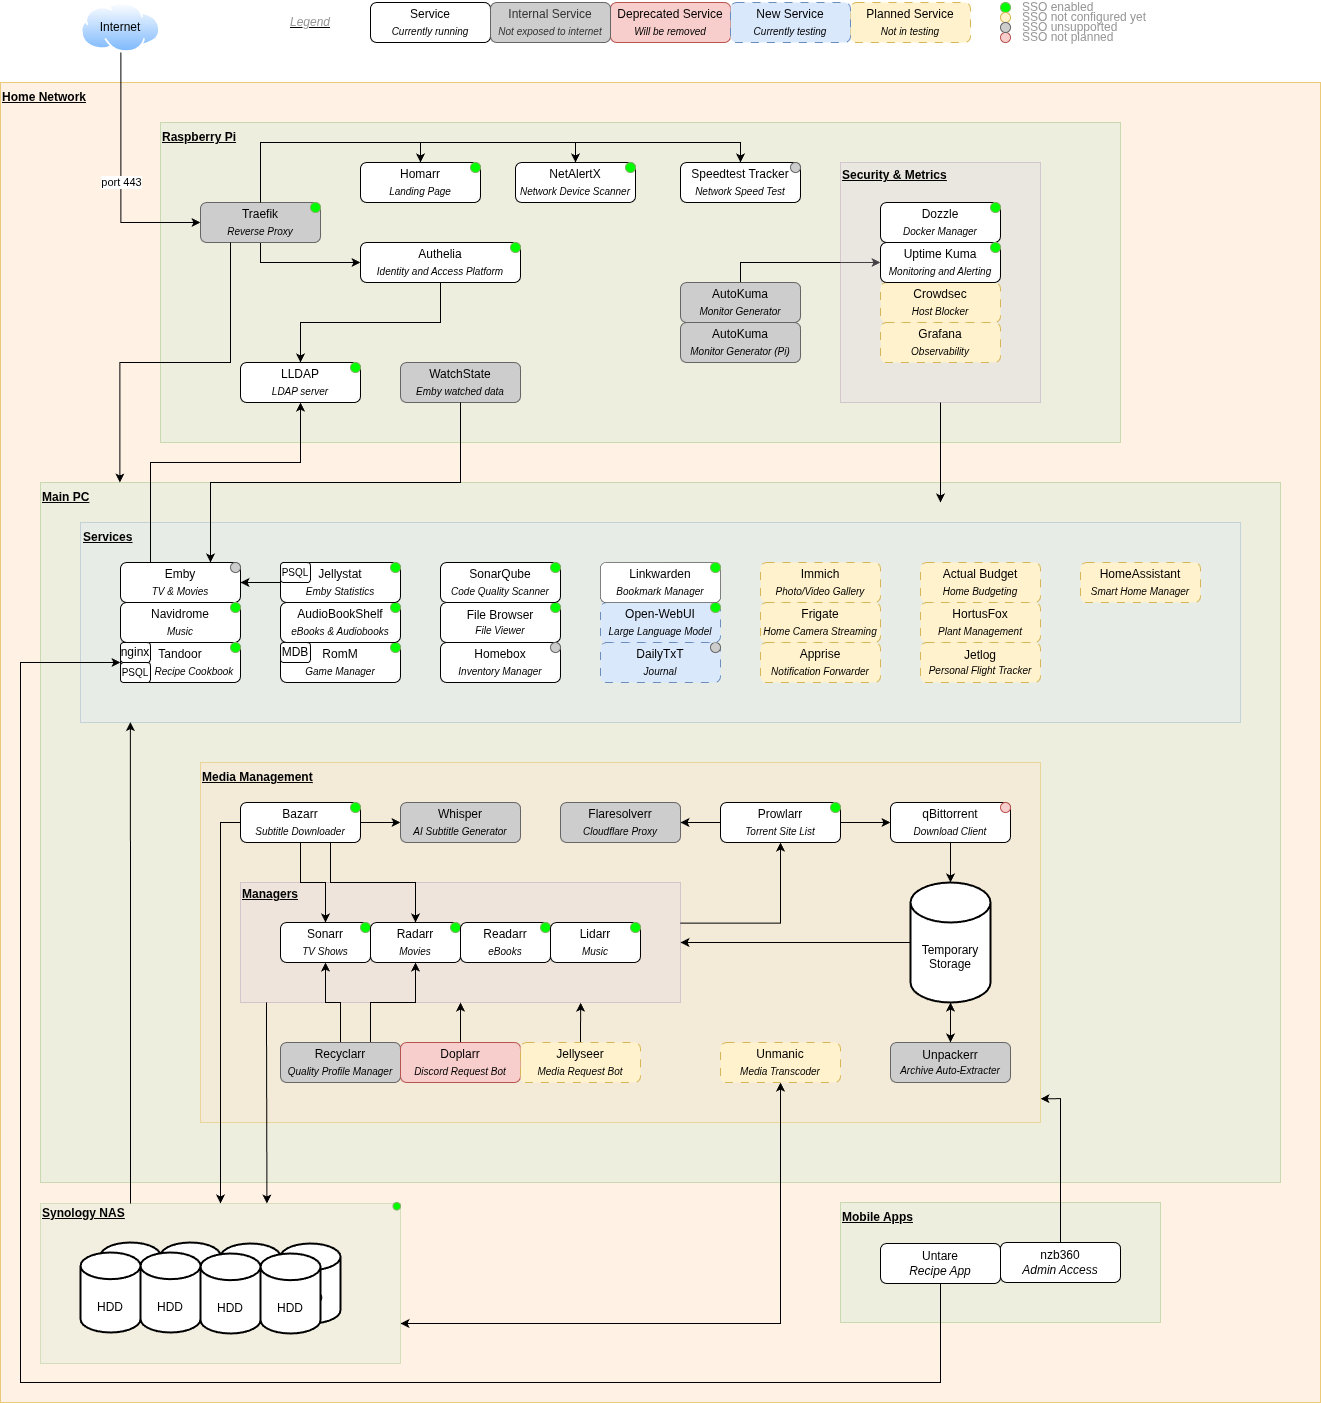
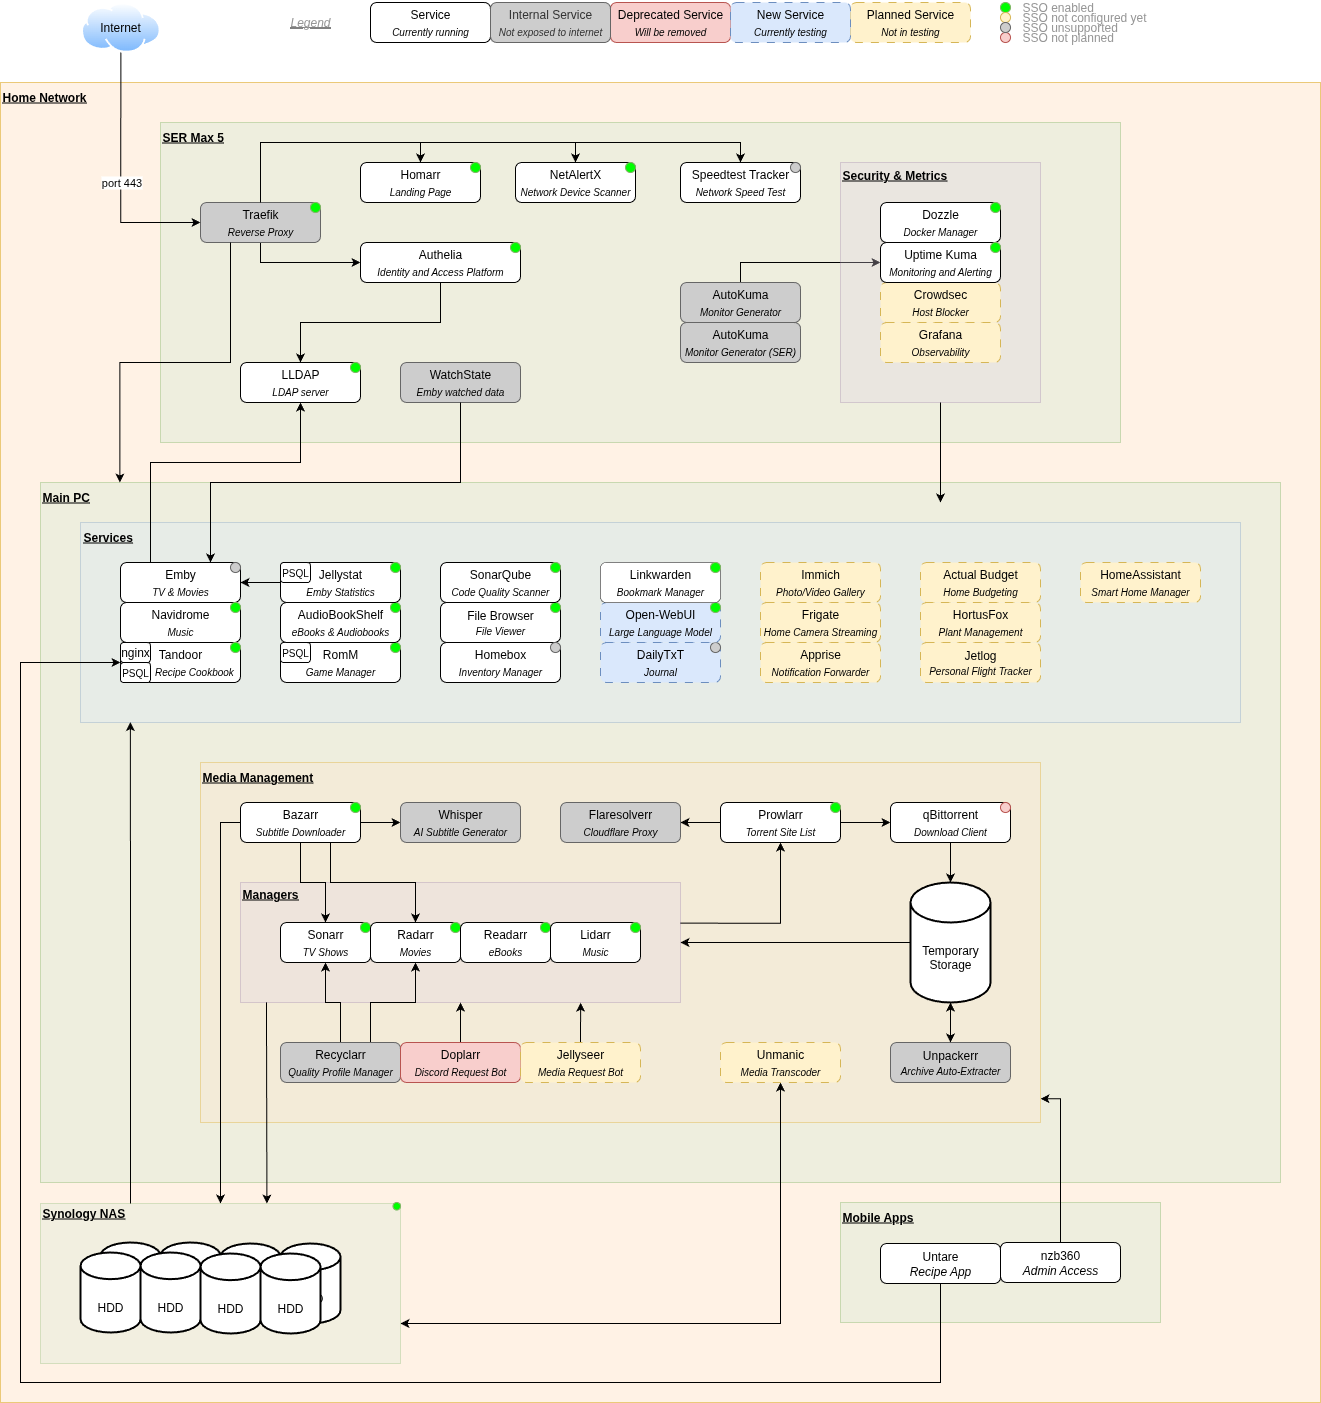
[Repo] Renaming docker-compose file for Raspberry Pi to SER

diff --git a/README.md b/README.md
@@ -10,299 +10,13 @@
 
 ### Main PC
 
+### SER Max 5
+
 ### Raspberry Pi
 
 ### Synology NAS
 
 ### Mobile Apps
-
-## Services
-
-TODO: Decide the order of the subheadings within each service
-
-### <img src="./logos/radarr.png" width="50" height="50" alt="radarr_logo"/> Radarr
-
-TODO: Purpose
-
-#### Docker Compose Extract
-
-```yaml
-radarr:
-  image: linuxserver/radarr:nightly-version-5.7.0.8851
-  container_name: radarr
-  hostname: radarr
-  depends_on:
-    qbittorrent:
-      condition: service_healthy
-  deploy:
-    resources:
-      limits:
-        cpus: "1"
-        memory: "1024M"
-  environment:
-    # Base config
-    TZ: "${TIMEZONE:?Timezone not set}"
-  healthcheck:
-    interval: 30s
-    retries: 3
-    start_period: 30s
-    test: [ "CMD", "wget", "--no-verbose", "--tries=1", "--spider", "http://127.0.0.1:3000/ping" ]
-    timeout: 5s
-  labels:
-    # Reverse proxy config
-    traefik.enable: "true"
-    traefik.http.routers.radarr.rule: "Host(`radarr.${DOMAIN_NAME}`)"
-    traefik.http.routers.radarr.entrypoints: "websecure"
-    traefik.http.routers.radarr.tls: "true"
-    traefik.http.routers.radarr.middlewares: "authelia@file"
-    traefik.http.services.radarr.loadbalancer.server.port: "4000"
-    # Uptime-Kuma monitor config
-    kuma.{{container_name}}.http.name: "Radarr (Movie Manager)"
-    kuma.{{container_name}}.http.url: "${RADARR_MONITOR_URL:?[radarr] Monitor URL missing}"
-  networks:
-    - home
-  ports:
-    - "4000:3000"
-  restart: unless-stopped
-  user: "${PUID_ROOT:?User ID missing}:${PGID_ROOT:?Group ID missing}"
-  volumes:
-    # Volume mounts from host system
-    - "${DOWNLOADS_DIRECTORY}:/downloads"
-    - "${MOVIE_DIRECTORY}:/movies"
-    # Persistent volumes
-    - ./storage/radarr/:/config
-```
-
-#### Additional Environment Variables
-
-None.
-
-#### Required Services
-
-#### Is It Mandatory
-
-No.
-
-Radarr is a companion to Sonarr/Lidarr/Readarr, but it is used to finding movies. If you have no need of *ever* wanting movies to be downloaded
-automatically, this service can be removed.
-
-It is possible to search for content through Prowlarr directly if a movie is wanted. However, they may potentially need to be manually renamed/moved
-after the download is completed.
-
-#### Healthcheck
-
-Radarr exposes a healthcheck endpoint, **/ping**. We configure the h
-
-#### Ports
-
-The default Radarr port of **7878** has been changed in the Radarr UI to **3000**. We then publicly expose it as port **4000**. This is minor
-obfuscation, and should not be considered actual security.
-
-#### Volumes
-
-### <img src="./logos/homarr.png" width="50" height="50" alt="homarr_logo"/> Homarr
-
-### <img src="./logos/sonarr.png" width="50" height="50" alt="sonarr_logo"/> Sonarr
-
-### <img src="./logos/lidarr.png" width="50" height="50" alt="lidarr_logo"/> Lidarr
-
-### <img src="./logos/readarr.png" width="50" height="50" alt="readarr_logo"/> Readarr
-
-----
-
-## Misc/Common Info
-
-### Common Healthcheck
-
-TODO: Discuss interval/retries/start_period/timeout default values
-
-### Common Environment Variables
-
-Most services may contain the following environment variables:
-
-| Environment Variable Name | Purpose  | Example Value    |
-|---------------------------|----------|------------------|
-| TZ (or TIMEZONE)          | Timezone | Pacific/Auckland |
-
-Since they are used throughout, we set these values in the `.env` file and pass them in through our docker compose configuration.
-
-#### PGID/PUID
-
-The **PGID** and **PUID** are used to override the group and user ID of the running container process, for permissions and privileges. Most services
-currently use the root user and group (**0**), exposed through the environment variables **PGID_ROOT** and **PUID_ROOT**. Some have been tested with
-non-root users and will instead use **PGID_NON_ROOT** and **PUID_NON_ROOT**.
-
-```yaml
-services:
-  service_name:
-    image: image_name:tag
-  user: "${PUID_NON_ROOT}:${PGID_NON_ROOT}"
-```
-
-#### TZ/TIMEZONE
-
-**TZ** or **TIMEZONE** is used to tell the service the running host's timezone, as defined by
-the [tz database](https://en.wikipedia.org/wiki/List_of_tz_database_time_zones#List).
-
-----
-
-## Environment Variables File (.env)
-
-TODO: Describe either in detail here, or high-level but with better comments in the .env.template file
-
-----
-
-## Public Access
-
-Access to the services is controlled by an instance of [Apache](https://httpd.apache.org/), being used as a reverse-proxy. This means all requests go
-through the Apache web-server and are then forwarded on to the correct internal system. This means we do not need to expose the ports for each service
-publicly, as Apache will be able to forward those requests itself.
-
-### Macro Definition
-
-The following macro is used as a template for most of the services:
-
-```bash
-<VirtualHost *:80>
-    ServerAdmin admin@email.com
-    ServerName $server_name.example.com
-    ServerAlias $server_name.site.*
-
-    ProxyPass / $protocol://$url/
-    ProxyPassReverse / $protocol://$url/
-
-    RewriteEngine on
-    RewriteCond %{HTTP:Upgrade} websocket [NC]
-    RewriteCond %{HTTP:Connection} upgrade [NC]
-    RewriteRule ^/?(.*) "ws://$url/$1" [P,L]
-
-    ProxyPreserveHost on
-    ProxyRequests Off
-    RemoteIPHeader X-Forwarded-For
-
-    TimeOut 20
-    ErrorDocument 502 https://status.example.com
-    ErrorDocument 503 https://status.example.com
-</VirtualHost>
-```
-
-Breaking down the macro, we can define each section/line:
-
-#### VirtualHost
-
-```bash
-<VirtualHost *:80>
-...
-</VirtualHost>
-```
-
-Definition
-
-#### Host Configuration
-
-```bash
-ServerAdmin admin@email.com
-```
-
-Definition
-
-```bash
-ServerName $server_name.example.com
-```
-
-Definition
-
-```bash
-ServerAlias $server_name.site.*
-```
-
-Definition
-
-#### URL Proxying
-
-```bash
-ProxyPass / $protocol://$url/
-```
-
-Definition
-
-```bash
-ProxyPassReverse / $protocol://$url/
-```
-
-Definition
-
-#### Websocket Enabling
-
-```bash
-RewriteEngine on
-```
-
-Definition
-
-```bash
-RewriteCond %{HTTP:Upgrade} websocket [NC]
-```
-
-Definition
-
-```bash
-RewriteCond %{HTTP:Connection} upgrade [NC]
-```
-
-Definition
-
-```bash
-RewriteRule ^/?(.*) "ws://$url/$1" [P,L]
-```
-
-Definition
-
-#### Preserving Originating Host
-
-```bash
-ProxyPreserveHost on
-```
-
-Definition
-
-```bash
-ProxyRequests Off
-```
-
-Definition
-
-```bash
-RemoteIPHeader X-Forwarded-For
-```
-
-Definition
-
-#### Timeouts And Errors
-
-```bash
-TimeOut 20
-```
-
-Definition
-
-```bash
-ErrorDocument 502 https://status.example.com
-```
-
-Definition
-
-```bash
-ErrorDocument 503 https://status.example.com
-```
-
-Definition
-
-### Custom Configuration
-
-In addition to the basic configuration, we have extra configuration for (TODO: discuss tandoor, homarr, redirects next)
-
-----
 
 ## Authentication
 
